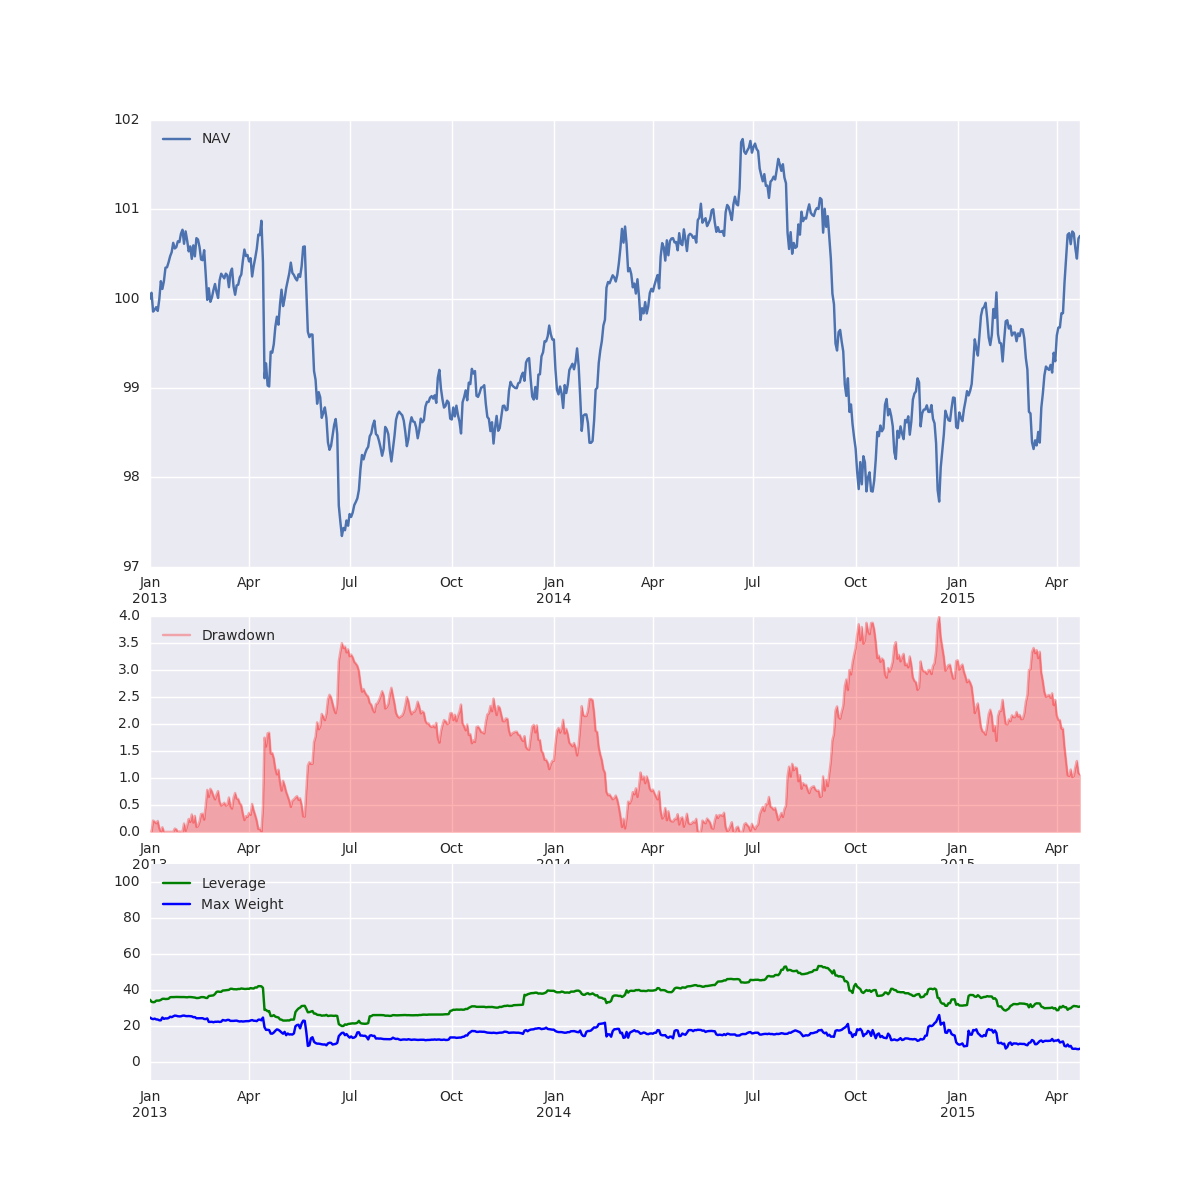
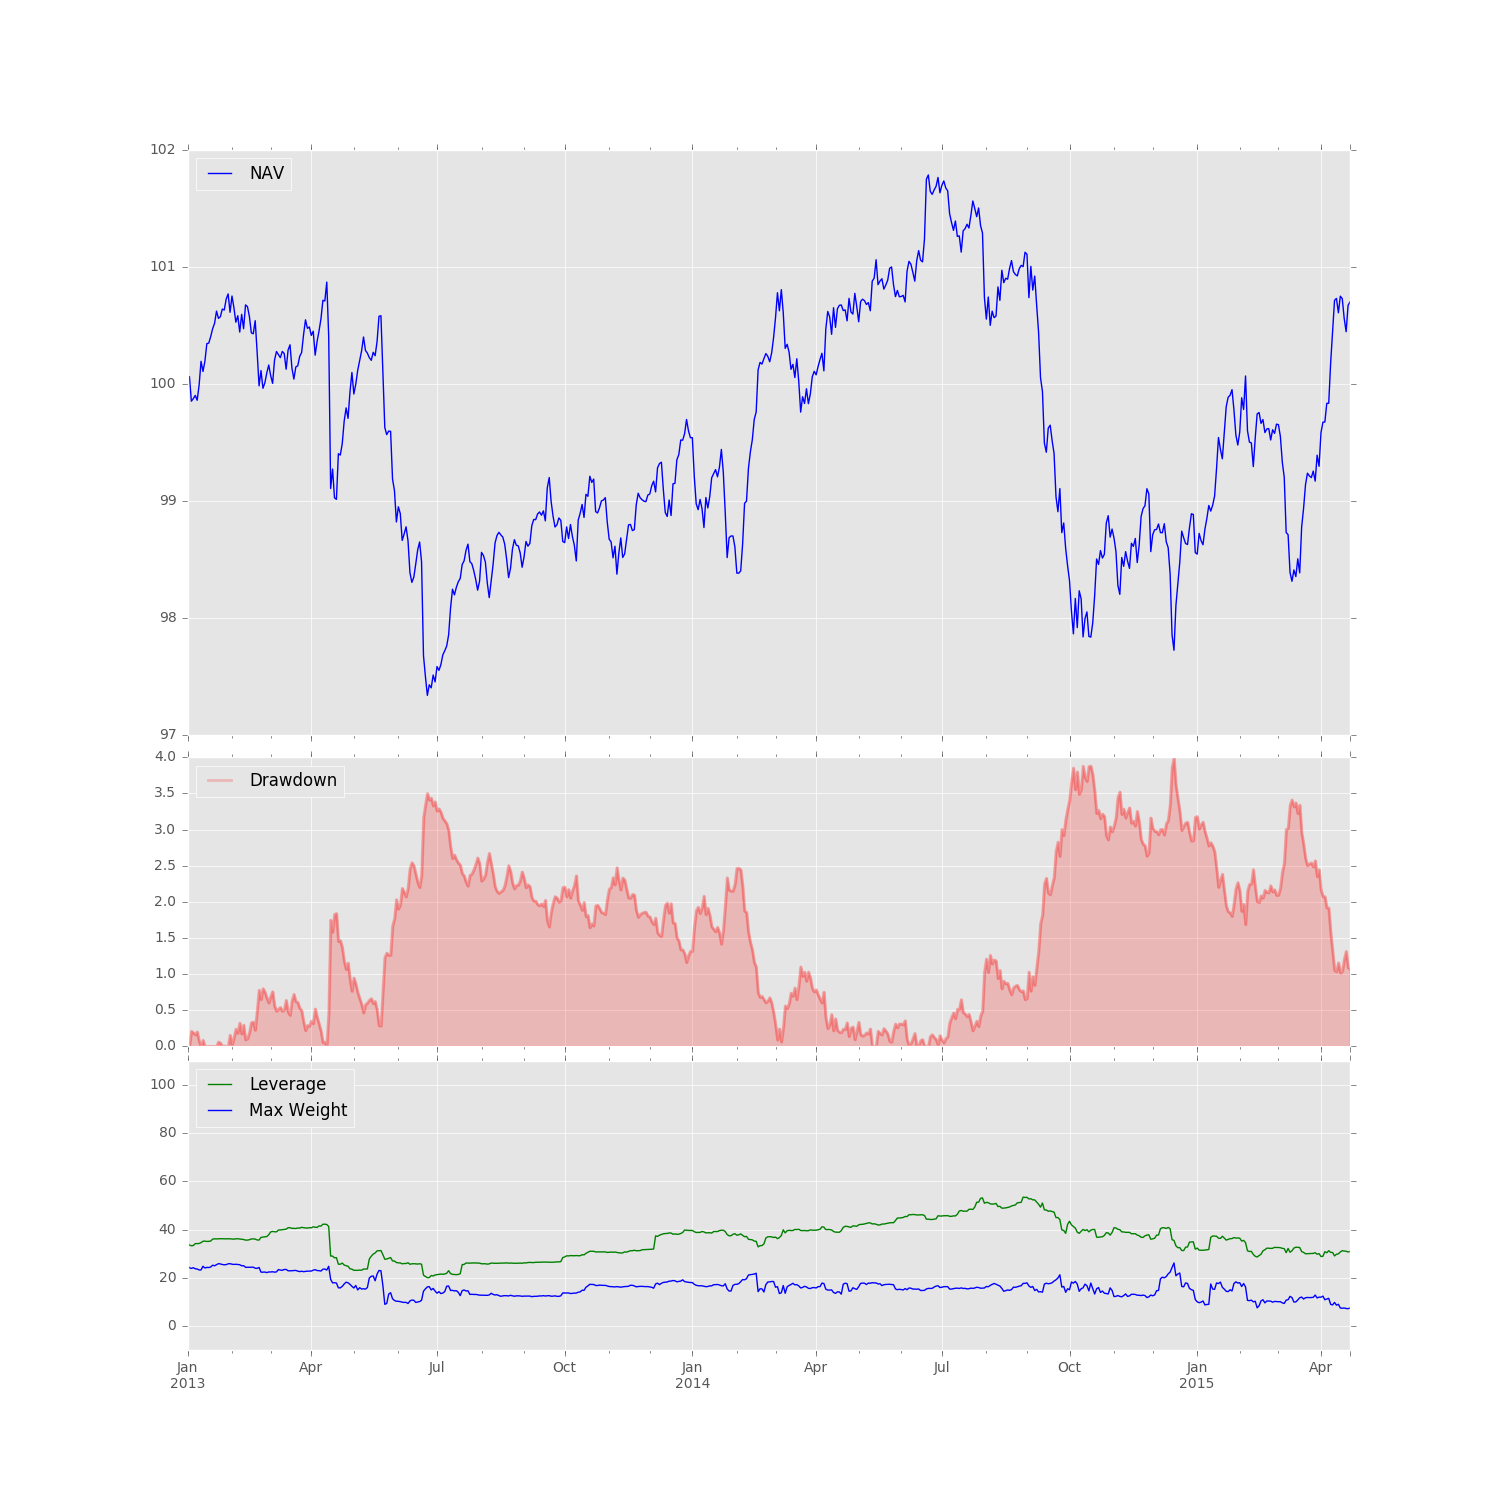
portfolio plot

diff --git a/pyutil/portfolio/portfolio.py b/pyutil/portfolio/portfolio.py
@@ -298,27 +298,28 @@ class Portfolio(object):
     def plot(self, tradingDays=False):
 
         import matplotlib.pyplot as plt
-        import seaborn as sns
-        sns.set(style="darkgrid")
+
+        import matplotlib
+        matplotlib.style.use('ggplot')
 
         f = plt.figure()
 
         ax1 = f.add_subplot(211)
-        (100 * (self.nav.series)).plot(ax=ax1)
+        (100 * (self.nav.series)).plot(ax=ax1, color="blue")
         if tradingDays:
             x1, x2, y1, y2 = plt.axis()
             plt.vlines(x=self.trading_days, ymin=y1, ymax=y2, colors="red")
         plt.legend(["NAV"], loc=2)
 
         ax2 = f.add_subplot(413,sharex=ax1)
-        (100*self.nav.drawdown).plot.area(ax=ax2, alpha=0.3, color="red")
+        (100*self.nav.drawdown).plot.area(ax=ax2, alpha=0.2, color="red", linewidth=2)
         plt.legend(["Drawdown"], loc=2)
 
         ax3 = plt.subplot(414, sharex=ax1)
-        (100 * self.leverage).plot(ax=ax3, color='g')
+        (100 * self.leverage).plot(ax=ax3, color='green')
         ax3.set_ylim([-10, 110])
 
-        (100 * self.weights.max(axis=1)).plot(ax=ax3, color='b')
+        (100 * self.weights.max(axis=1)).plot(ax=ax3, color='blue')
         plt.legend(["Leverage","Max Weight"], loc=2)
 
         f.subplots_adjust(hspace=0.05)

diff --git a/examples/portfolio.py b/examples/portfolio.py
@@ -23,5 +23,5 @@ if __name__ == '__main__':
 
     f.set_size_inches(15,15)
     print(f.get_axes())
-    print(f.suptitle("Test Portfolio"))
-    f.savefig("/pyutil/results/portfolio.png")
+    #print(f.suptitle("Test Portfolio"))
+    f.savefig("/pyutil/examples/portfolio.png")

diff --git a/setup.py b/setup.py
@@ -4,7 +4,7 @@ from setuptools import setup, find_packages
 
 setup(
     name='pyutil',
-    version='v1.7.7',
+    version='v1.7.8',
     packages=find_packages(include=["pyutil*"]),
     author='Lobnek Wealth Management',
     author_email='thomas.schmelzer@lobnek.com',
